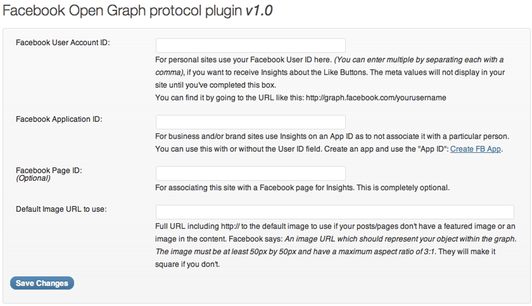
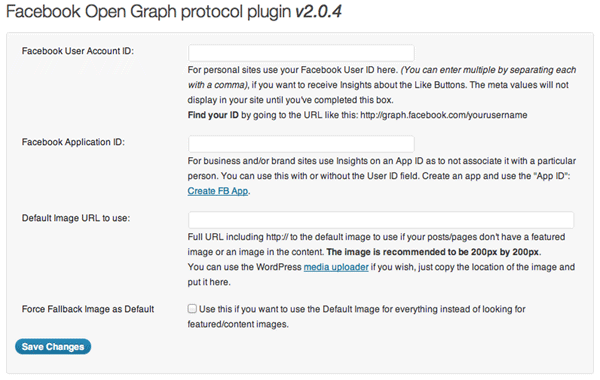
bump 2.4b, update screenshot, og:image to medium from thumbnail

diff --git a/wp-facebook-ogp.php b/wp-facebook-ogp.php
@@ -3,7 +3,7 @@
 Plugin Name: WP Facebook Open Graph protocol
 Plugin URI: http://wordpress.org/extend/plugins/wp-facebook-open-graph-protocol/
 Description: Adds proper Facebook Open Graph Meta tags and values to your site so when links are shared it looks awesome! Works on Google + and Linkedin too!
-Version: 2.0.3
+Version: 2.0.4
 Author: Chuck Reynolds
 Author URI: http://chuckreynolds.us
 License: GPL2
@@ -25,7 +25,7 @@ License: GPL2
 	Foundation, Inc., 51 Franklin St, Fifth Floor, Boston, MA 02110-1301 USA
 */
 
-define('WPFBOGP_VERSION', '2.0.3');
+define('WPFBOGP_VERSION', '2.0.4');
 wpfbogp_admin_warnings();
 
 // add OGP namespace per ogp.me schema
@@ -153,7 +153,7 @@ function wpfbogp_build_head() {
 		if ( ! is_home() && $options['wpfbogp_force_fallback'] != 1 ) {
 			// Find featured thumbnail of the current post/page
 			if ( function_exists( 'has_post_thumbnail' ) && has_post_thumbnail( $post->ID ) ) {
-				$thumbnail_src = wp_get_attachment_image_src( get_post_thumbnail_id( $post->ID ), 'thumbnail' );
+				$thumbnail_src = wp_get_attachment_image_src( get_post_thumbnail_id( $post->ID ), 'medium' );
 				$wpfbogp_images[] = $thumbnail_src[0]; // Add to images array
 			}
 			
@@ -182,7 +182,6 @@ function wpfbogp_build_head() {
 		echo "<!-- // end wpfbogp -->\n";
 	}
 }
-
 
 add_action('wp_head','wpfbogp_build_head',50);
 add_action('admin_init','wpfbogp_init');
@@ -263,7 +262,7 @@ function wpfbogp_buildpage() {
 			<tr valign="top">
 				<th scope="row"><?php _e('Default Image URL to use:') ?></th>
 				<td><input type="text" name="wpfbogp[wpfbogp_fallback_img]" value="<?php echo $options['wpfbogp_fallback_img']; ?>" class="large-text" /><br />
-					<?php _e('Full URL including http:// to the default image to use if your posts/pages don\'t have a featured image or an image in the content. The image is recommended to be 200px by 200px.<br />
+					<?php _e('Full URL including http:// to the default image to use if your posts/pages don\'t have a featured image or an image in the content. <strong>The image is recommended to be 200px by 200px</strong>.<br />
 					You can use the WordPress <a href="upload.php">media uploader</a> if you wish, just copy the location of the image and put it here.') ?></td>
 			</tr>
 			<tr valign="top">
